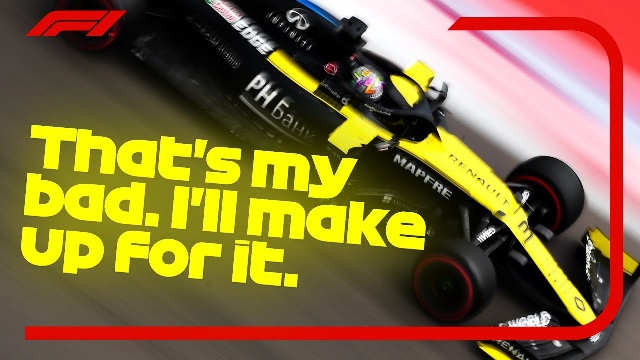
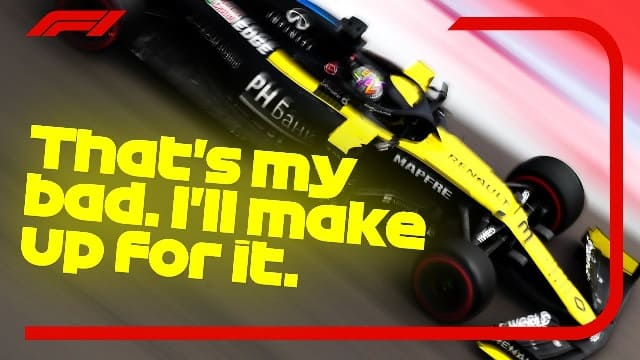
Optimize static images

diff --git a/tahmin/templates/tahmin/race_tahmins.html b/tahmin/templates/tahmin/race_tahmins.html
@@ -20,7 +20,7 @@
 
     {% if before_race %}
         <div class="alert alert-warning" role="alert">
-            <img src="{% static 'img/really3dcasio.png' %}" class="rounded mx-auto d-block" alt="Uyarı!">
+            <img src="{% static 'img/really3dcasio.jpg' %}" class="rounded mx-auto d-block" alt="Uyarı!">
             <h2 class="text-center">
                 Üyelerimizin yaptığı tahminler yarış saatinden sonra görünür olacaktır.</h2>
             <p class="text-center">Yaptığınız tahmini görmek ya da yeni tahmin yapmak için:</p>

diff --git a/templates/404.html b/templates/404.html
@@ -2,7 +2,7 @@
 {% load i18n static %}
 
 {% block title %}{% translate 'Page not found' %}{% endblock %}
-{% block img_url %}{% static 'img/404.png' %}{% endblock %}
+{% block img_url %}{% static 'img/404.jpg' %}{% endblock %}
 {% block error_code %}404{% endblock %}
 {% block error_title %}404: {% translate 'Page not found' %}{% endblock %}
 {% block error_text %}Olmayan bir sayfaya ulaşmaya çalıştınız{% endblock %}

diff --git a/templates/expired.html b/templates/expired.html
@@ -8,7 +8,7 @@
 
 {% block content %}
     <div class="alert alert-danger my-4" role="alert">
-        <img src="{% static 'img/toolate.png' %}" class="rounded mx-auto d-block" alt="Uyarı!">
+        <img src="{% static 'img/toolate.jpg' %}" class="rounded mx-auto d-block" alt="Uyarı!">
         <h2 class="text-center">
             İşlem süresi doldu, bir sonraki yarışta görüşmek üzere.
         </h2>

diff --git a/CHANGELOG.md b/CHANGELOG.md
@@ -13,6 +13,10 @@ and this project adheres to [Semantic Versioning](https://semver.org/spec/v2.0.0
 ### Fixed
 ### Security
 
+## [1.7.9] - 2023-06-16
+### Fixed
+- Optimize static images
+
 ## [1.7.8] - 2023-06-16
 ### Changed
 - Simplify Tahmin logic
